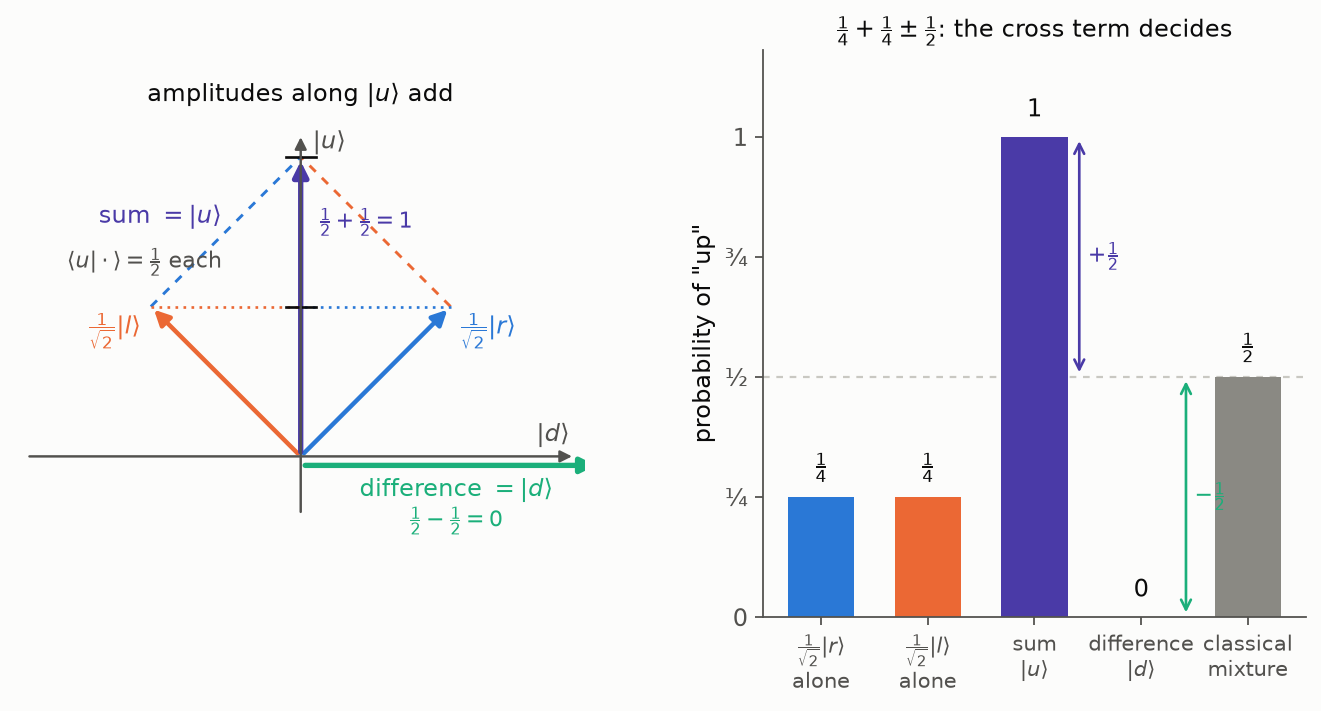
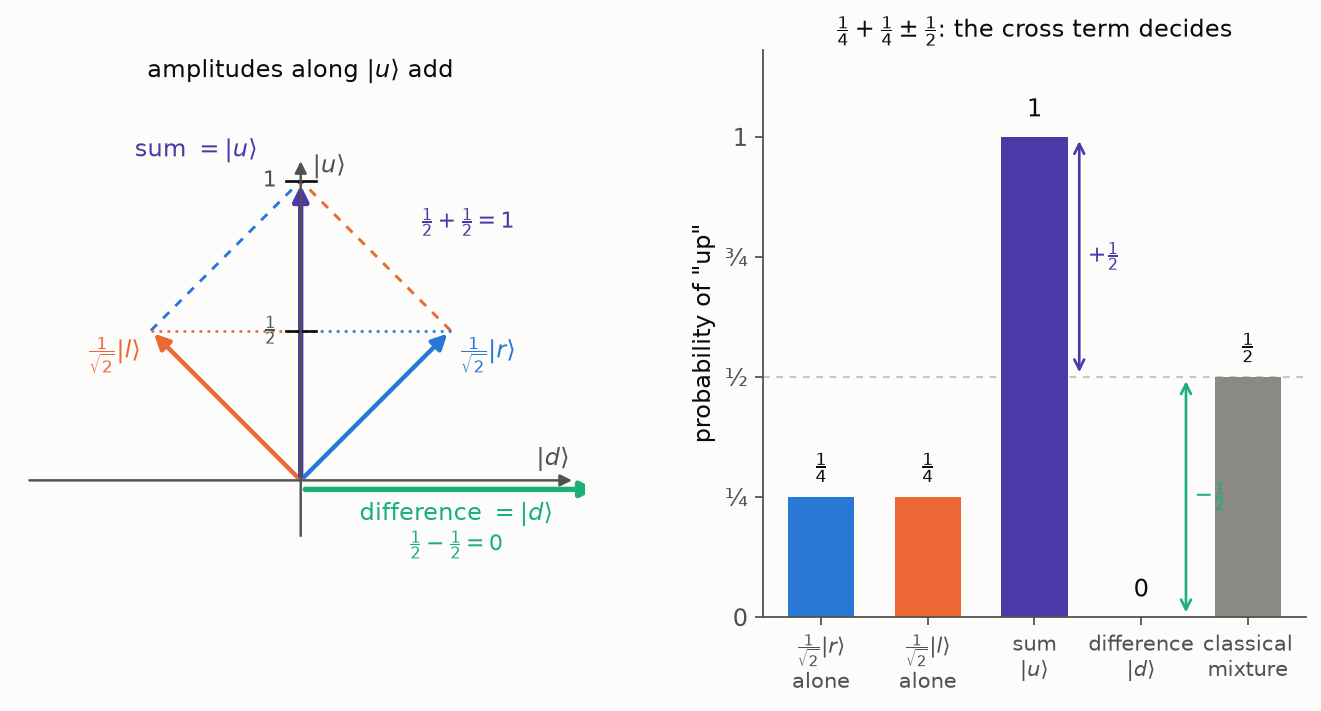
Heisenberg's Table: the spin example as its own subsection — σ_z, its average in |r⟩, then interference with formulas displayed; figure labels untangled

diff --git a/content/quantum/heisenbergs-table/index.md b/content/quantum/heisenbergs-table/index.md
@@ -938,37 +938,79 @@ out: the operator of the observable between the bra and the ket of
 the state. Landau and Lifshitz *define* the operator of a quantity
 by this requirement, that the bracket return the mean (their (3.8)).
 
-**Interference on the spin.** Measure the spin along $z$ in the two $x$-definite states: the probability
-of "up" is $p = \langle \psi | u \rangle \langle u | \psi \rangle = |\langle u | \psi \rangle|^2$,
-and since $|r\rangle$ and $|l\rangle$ are each half up and half down,
-$|\langle u | r \rangle|^2 = |\langle u | l \rangle|^2 = \tfrac12$. Now
-combine them. The two states
-$\tfrac{1}{\sqrt 2}|r\rangle + \tfrac{1}{\sqrt 2}|l\rangle$ and
-$\tfrac{1}{\sqrt 2}|r\rangle - \tfrac{1}{\sqrt 2}|l\rangle$ are built
-from the same two pieces, each piece contributing
-$p(\tfrac{1}{\sqrt 2} r) = p(\tfrac{1}{\sqrt 2} l) = \tfrac14$; the
-cross term is $\pm 2 \cdot \tfrac12 \cdot \tfrac12 = \pm \tfrac12$, so
-the probabilities of "up" are $\tfrac14 + \tfrac14 + \tfrac12 = 1$
-and $\tfrac14 + \tfrac14 - \tfrac12 = 0$. The first combination is
-$|u\rangle$ and the second is $|d\rangle$ — the second post's
-formulas for $|r\rangle$ and $|l\rangle$, read backwards — so the
-answers are right; but they came out of the *same* two pieces with
-*opposite* cross terms. A classical mixture — an electron that is
-$|r\rangle$ half the time and $|l\rangle$ the other half — would
-give $\tfrac12$ either way: that is what "the probability of a sum
-is the sum of the probabilities" would mean, and it is wrong.
-Amplitudes add, and the probability is the squared magnitude of
-the sum, so the pieces can reinforce or cancel. This is the second
-post's remark, in
+### The spin along $z$: operator, average, interference
+
+Before going on, the whole chapter on the one observable this road
+started from: the spin along $z$. Its two outcomes are $+1$ and
+$-1$, its definite states are $|u\rangle$ and $|d\rangle$, and in that
+basis its table is diagonal with the outcomes on the diagonal. The
+operator is written $\sigma_z$:
+
+$$
+\sigma_z = \begin{pmatrix} 1 & 0 \\ 0 & -1 \end{pmatrix}, \qquad \sigma_z |u\rangle = |u\rangle, \quad \sigma_z |d\rangle = -|d\rangle .
+$$
+
+**The average.** Take the state $|r\rangle$ of the second post,
+spin $+1$ along $x$, whose coordinates in the $z$ basis are
+$c_u = c_d = \tfrac{1}{\sqrt 2}$:
+
+$$
+\langle r | \sigma_z | r \rangle = (+1)\, |c_u|^2 + (-1)\, |c_d|^2 = \tfrac12 - \tfrac12 = 0 .
+$$
+
+This is the first post's $\langle \sigma \rangle = \cos\theta$ at
+$\theta = 90°$, the angle between the $x$ preparation and the $z$
+measurement. In a general state
+$|\psi\rangle = c_u |u\rangle + c_d |d\rangle$ the same computation
+gives $\langle \sigma_z \rangle = |c_u|^2 - |c_d|^2$: the Born
+probabilities $|c_u|^2$ and $|c_d|^2$ of the two outcomes, weighted
+by the outcomes.
+
+**Interference.** The probability of "up" in a state $|\psi\rangle$
+is the Born weight of $|u\rangle$,
+
+$$
+p_u(\psi) = |\langle u | \psi \rangle|^2 ,
+$$
+
+and for the two $x$-definite states it is the same number, since
+$|r\rangle$ and $|l\rangle$ are each half up and half down:
+
+$$
+p_u(r) = p_u(l) = \tfrac12 .
+$$
+
+Now add them. The two combinations
+
+$$
+\tfrac{1}{\sqrt 2}\,|r\rangle + \tfrac{1}{\sqrt 2}\,|l\rangle = |u\rangle, \qquad \tfrac{1}{\sqrt 2}\,|r\rangle - \tfrac{1}{\sqrt 2}\,|l\rangle = |d\rangle
+$$
+
+— the second post's formulas for $|r\rangle$ and $|l\rangle$, read
+backwards — are built from the same two pieces,
+$\tfrac{1}{\sqrt 2}|r\rangle$ and $\pm\tfrac{1}{\sqrt 2}|l\rangle$.
+Each piece alone contributes a quarter,
+$p_u(\tfrac{1}{\sqrt 2} r) = p_u(\tfrac{1}{\sqrt 2} l) = \tfrac14$, and
+the cross term $2\,\mathrm{Re}\,\langle \tfrac{1}{\sqrt 2} r | u \rangle \langle u | \pm \tfrac{1}{\sqrt 2} l \rangle$
+is $\pm 2 \cdot \tfrac12 \cdot \tfrac12 = \pm\tfrac12$:
+
+$$
+p_u(u) = \tfrac14 + \tfrac14 + \tfrac12 = 1, \qquad p_u(d) = \tfrac14 + \tfrac14 - \tfrac12 = 0 .
+$$
+
+Both answers are right, and they came out of the *same* two pieces
+with *opposite* cross terms. A classical mixture — an electron that
+is $|r\rangle$ half the time and $|l\rangle$ the other half — would
+give $\tfrac12$ either way; that is what "the probability of a sum is
+the sum of the probabilities" would mean, and it is wrong. Amplitudes
+add, and the probability is the squared magnitude of the sum, so the
+pieces can reinforce or cancel. This is the second post's remark, in
 ["What the geometry means physically"](/quantum/states-are-vectors/#what-the-geometry-means-physically),
 that amplitudes can cancel in a superposition, and it is the two-slit
-experiment of volume III, chapter 1 of Feynman in
-the smallest possible setting. 
-
-
+experiment of volume III, chapter 1 of Feynman in the smallest
+possible setting.
 
 ![Interference on the spin: the amplitudes of the two pieces along |u⟩ add to 1 for the sum and to 0 for the difference, so the probabilities of "up" are 1 and 0, while a classical mixture of the same two pieces would give one half](interference_spin.png)
-
 
 ### The diagonal basis is the eigenbasis
 
